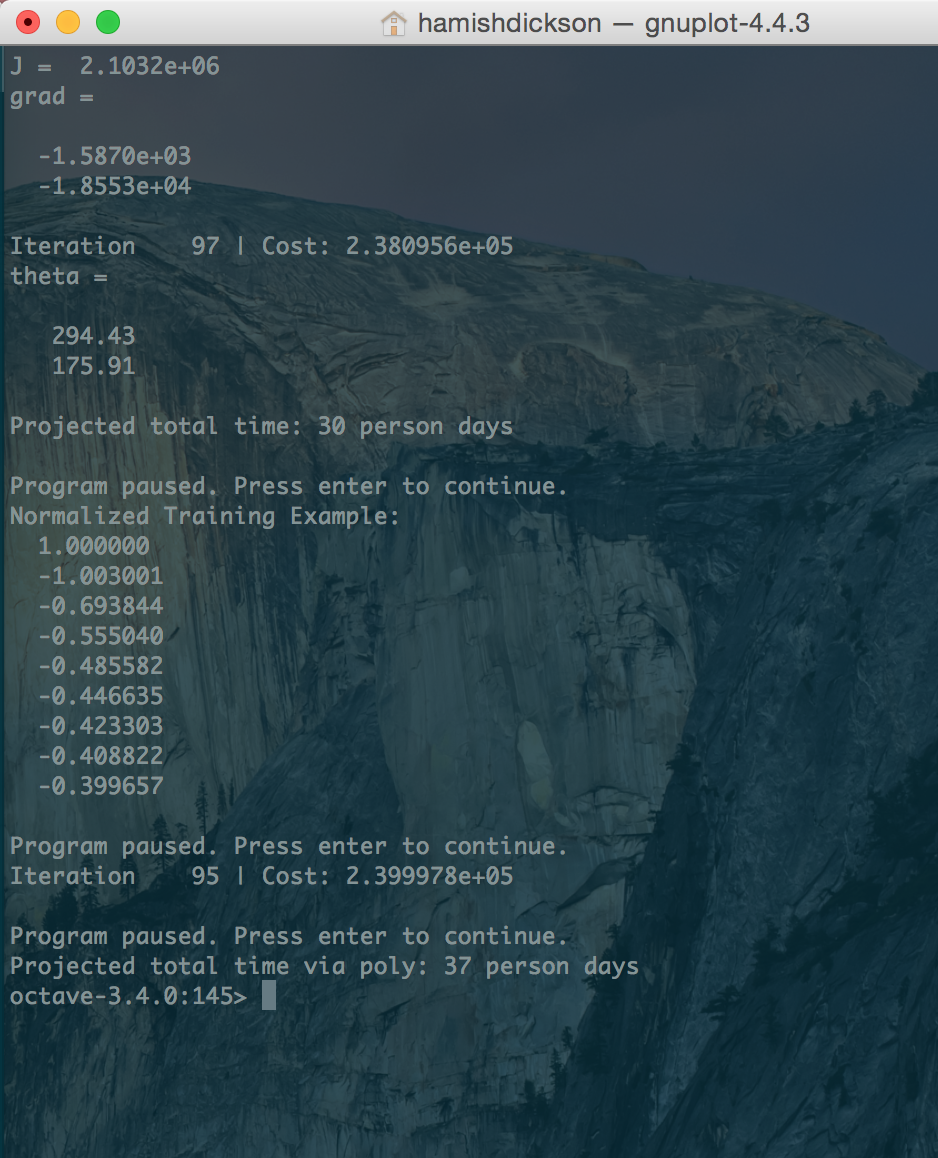
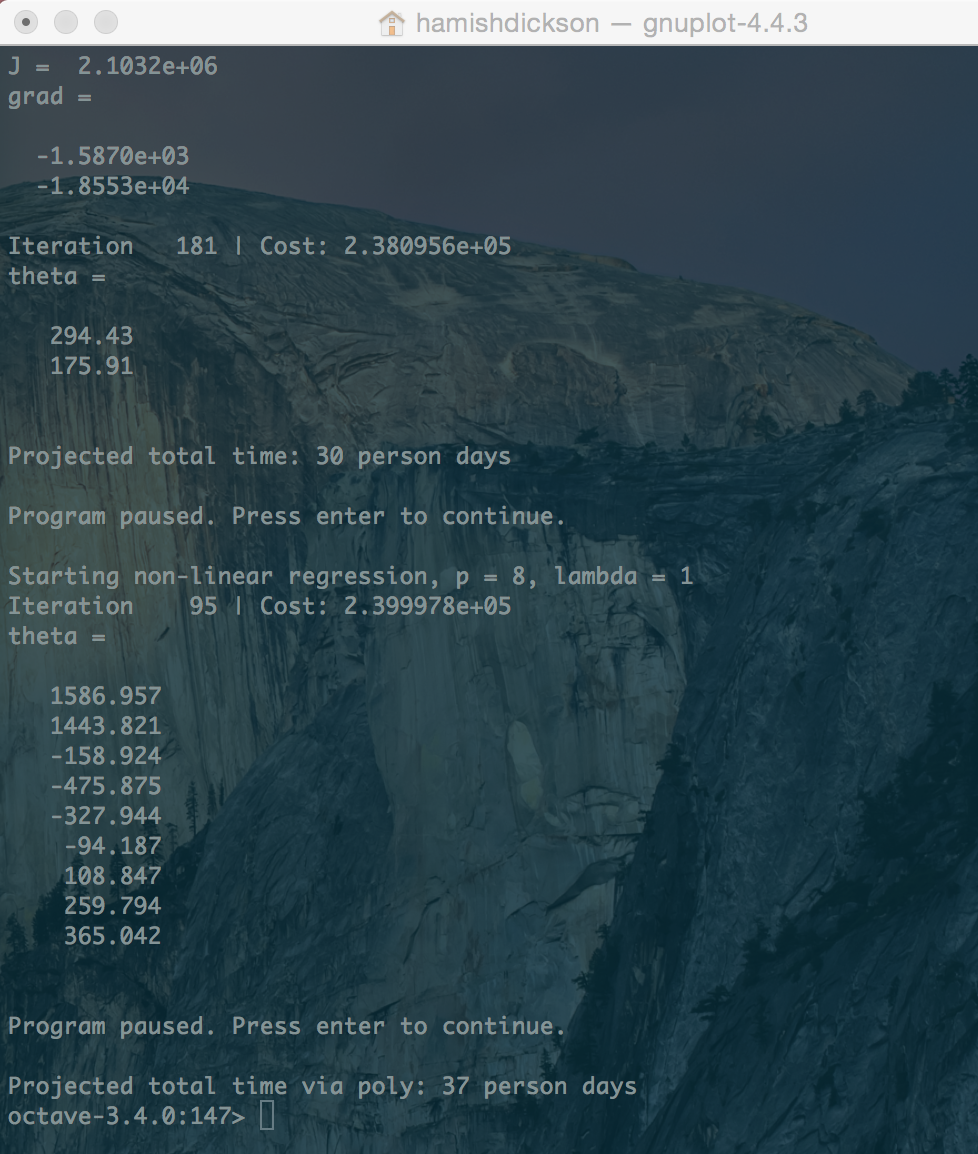
Output both thetas to the console

diff --git a/burnup.m b/burnup.m
@@ -77,7 +77,7 @@ total_mins = sum(Points * theta);
 
 total = total_mins / mins_in_day;
 
-fprintf('Projected total time: %d person days\n', total);
+fprintf('\nProjected total time: %d person days\n', total);
 
 fprintf('\nProgram paused. Press enter to continue.\n');
 pause;
@@ -91,18 +91,14 @@ p = 8;
 % dial this up to stop overfitting
 lambda = 1;
 
+fprintf('\nStarting non-linear regression, p = 8, lambda = 1\n');
+
 % Map X onto Polynomial Features and Normalize
 X_poly = polyFeatures(data(:, 2), p);
 [X_poly, mu, sigma] = featureNormalize(X_poly);  % Normalize
 X_poly = [ones(m, 1), X_poly];                   % Add Ones
 
-fprintf('Normalized Training Example:\n');
-fprintf('  %f  \n', X_poly(1, :));
-
-fprintf('\nProgram paused. Press enter to continue.\n');
-pause;
-
-[theta] = trainLinearRegression(X_poly, y, lambda);
+[theta] = trainLinearRegression(X_poly, y, lambda)
 
 figure(1);
 plot(X, y, 'rx', 'MarkerSize', 10, 'LineWidth', 1.5);
@@ -127,4 +123,4 @@ total_mins = sum(points_poly * theta);
 
 total = total_mins / mins_in_day;
 
-fprintf('Projected total time via poly: %d person days\n', total);
+fprintf('\nProjected total time via poly: %d person days\n', total);
